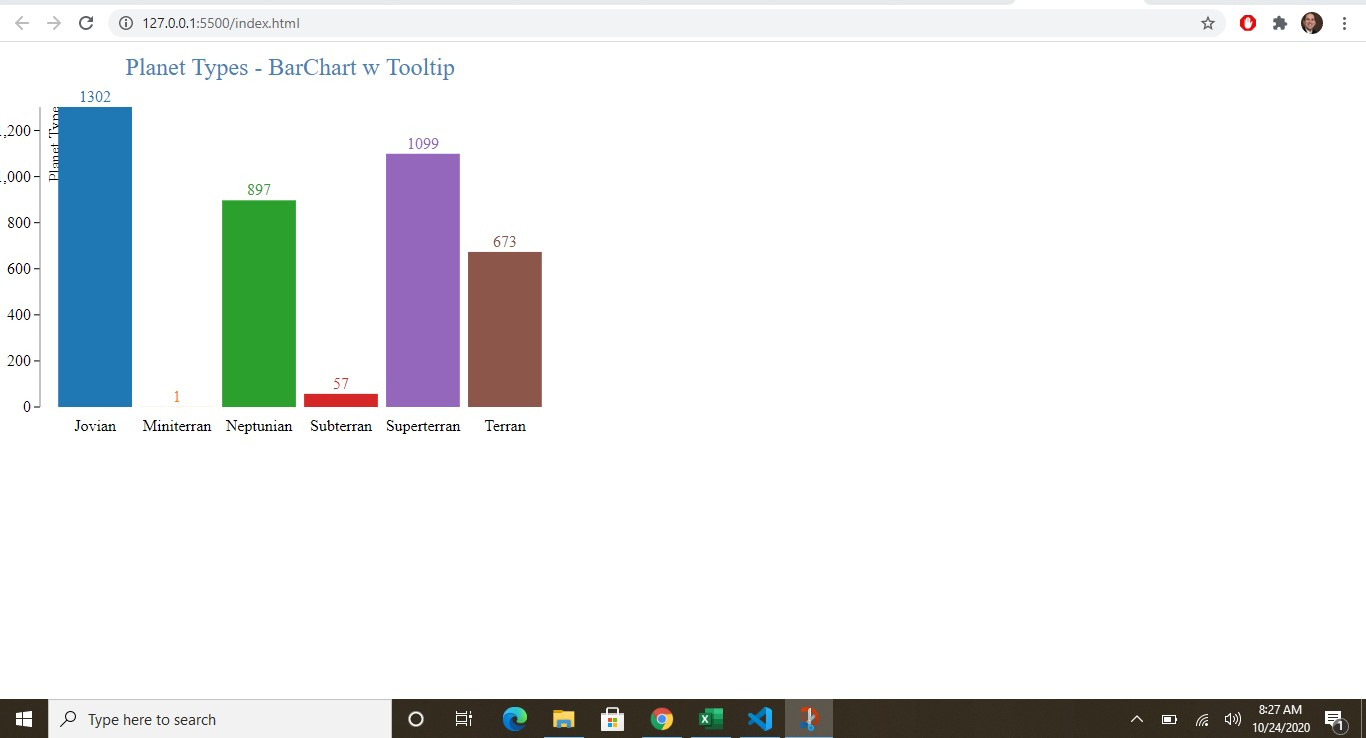
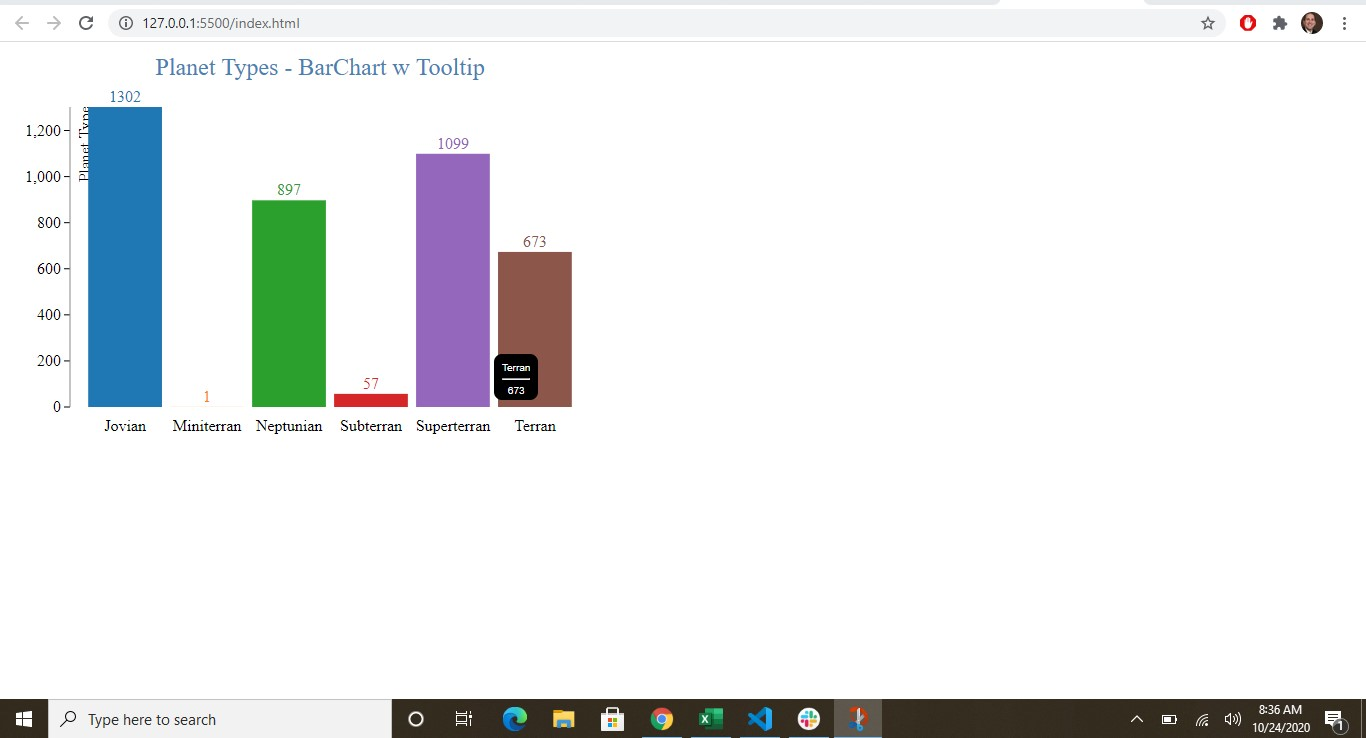
updatebar

Changed region(s): [[0.0, 0.0623, 0.4305, 0.5921], [0.5534, 0.935, 0.6457, 1.0], [0.3997, 0.9973, 0.4305, 1.0]]

diff --git a/d3BarChartPlTypes/index.html b/d3BarChartPlTypes/index.html
@@ -37,7 +37,7 @@ d3.csv(url, function(error, data){
       d.number = +d.number;
     });
     // console.log(data)
-    var margin = {top: 65, bottom: 50, left: 50, right: 30}, axisPadding = 10;
+    var margin = {top: 65, bottom: 50, left: 80, right: 30}, axisPadding = 10;
     var Width = 500, Height = 300;
     var svgWidth = Width + margin.left + margin.right,
         svgHeight = Height + margin.top + margin.bottom;
